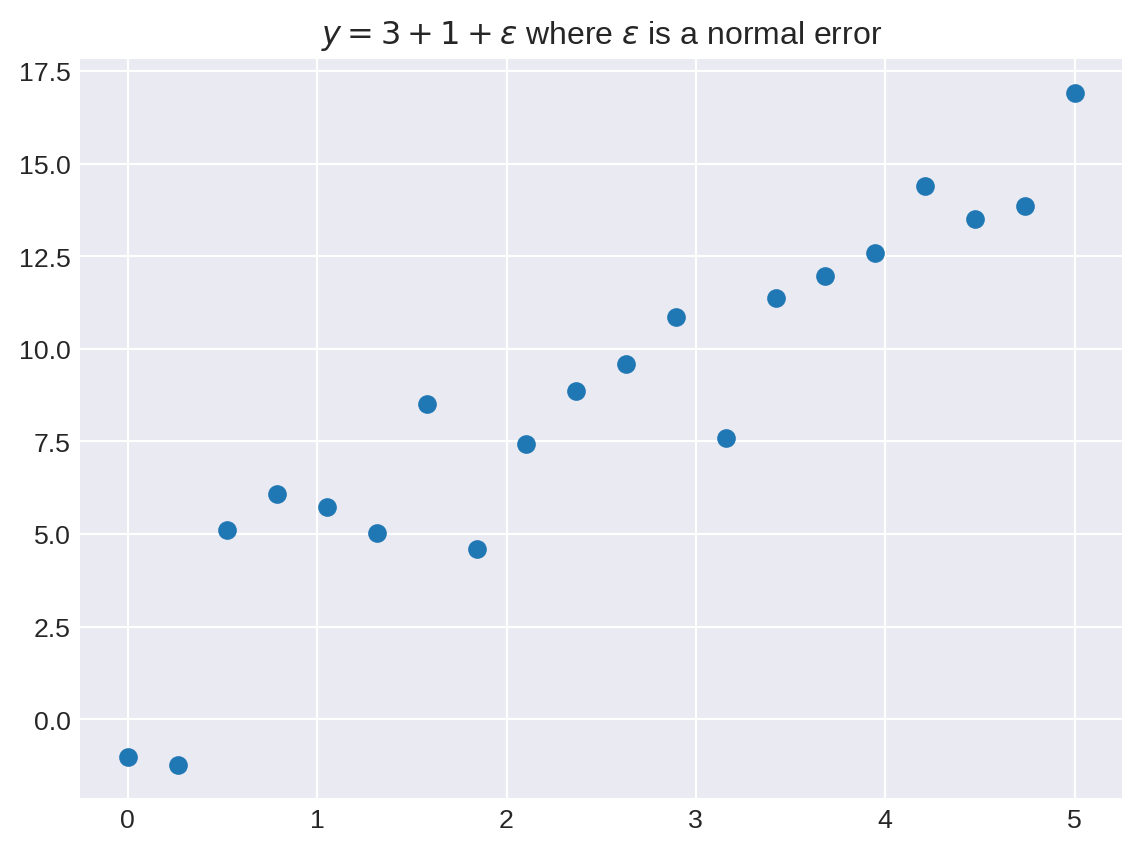
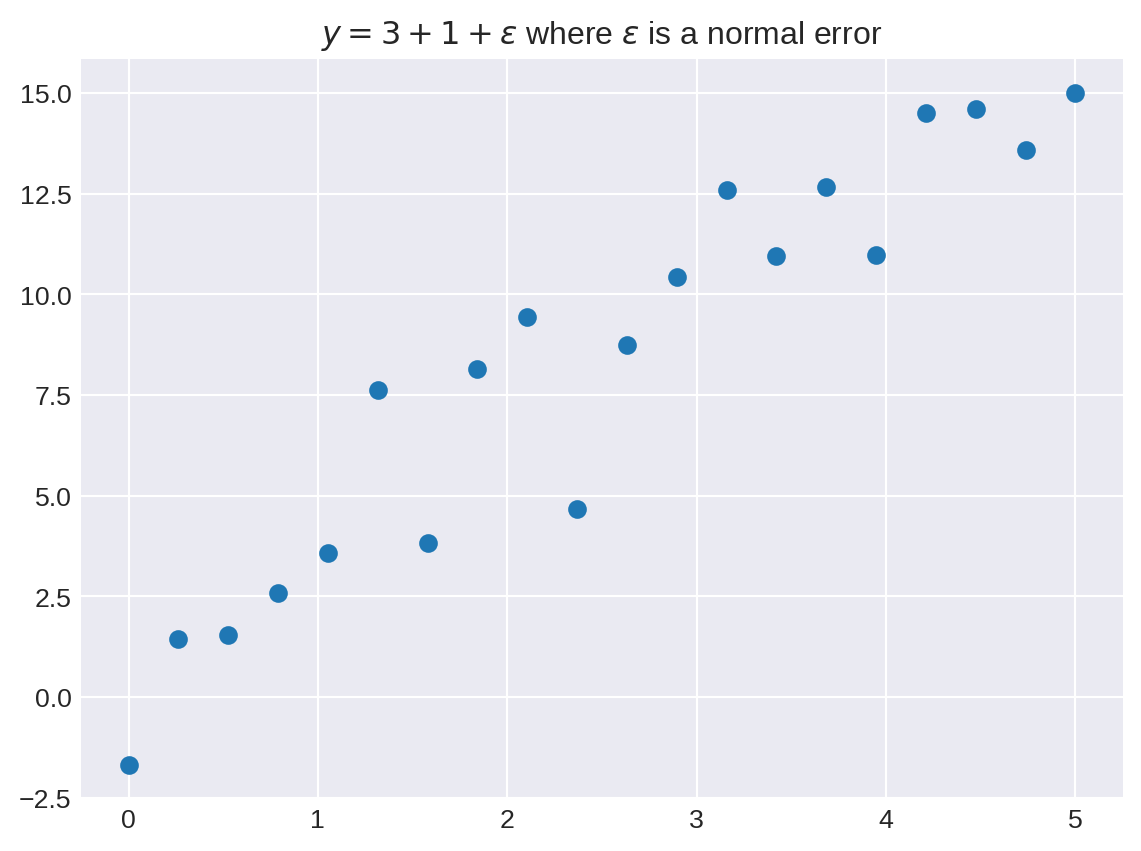
updating published version

diff --git a/docs/chapters/06-LinearAlgebra/linear_algebra_r.html b/docs/chapters/06-LinearAlgebra/linear_algebra_r.html
@@ -342,13 +342,13 @@ code span.wa { color: #60a0b0; font-weight: bold; font-style: italic; } /* Warni
 <span id="cb19-2"><a href="#cb19-2" aria-hidden="true" tabindex="-1"></a>y <span class="ot">&lt;-</span> <span class="fu">rnorm</span>(<span class="dv">4</span>)</span>
 <span id="cb19-3"><a href="#cb19-3" aria-hidden="true" tabindex="-1"></a><span class="fu">print</span>(x <span class="sc">+</span> y)</span></code><button title="Copy to Clipboard" class="code-copy-button"><i class="bi"></i></button></pre></div>
 <div class="cell-output cell-output-stdout">
-<pre><code>[1]  0.05654235 -0.66253931 -1.15118455 -2.25194597</code></pre>
+<pre><code>[1]  0.88424909  2.61113260  1.48789182 -0.04380272</code></pre>
 </div>
 <div class="sourceCode cell-code" id="cb21"><pre class="sourceCode r code-with-copy"><code class="sourceCode r"><span id="cb21-1"><a href="#cb21-1" aria-hidden="true" tabindex="-1"></a><span class="co"># note that in R this makes sense</span></span>
 <span id="cb21-2"><a href="#cb21-2" aria-hidden="true" tabindex="-1"></a>u <span class="ot">&lt;-</span> <span class="fu">rnorm</span>(<span class="dv">2</span>)</span>
 <span id="cb21-3"><a href="#cb21-3" aria-hidden="true" tabindex="-1"></a><span class="fu">print</span>(x <span class="sc">+</span> u)</span></code><button title="Copy to Clipboard" class="code-copy-button"><i class="bi"></i></button></pre></div>
 <div class="cell-output cell-output-stdout">
-<pre><code>[1] -0.9641883 -1.4708134 -1.1406099 -1.0718438</code></pre>
+<pre><code>[1] -0.1231225  2.7025162  0.7688217  1.1044347</code></pre>
 </div>
 </div>
 </section>
@@ -359,39 +359,39 @@ code span.wa { color: #60a0b0; font-weight: bold; font-style: italic; } /* Warni
 <span id="cb23-2"><a href="#cb23-2" aria-hidden="true" tabindex="-1"></a>v <span class="ot">=</span> <span class="fu">matrix</span>(<span class="fu">rnorm</span>(<span class="dv">20</span>), <span class="at">ncol =</span> <span class="dv">4</span>)</span>
 <span id="cb23-3"><a href="#cb23-3" aria-hidden="true" tabindex="-1"></a><span class="fu">print</span>(u <span class="sc">+</span> v)</span></code><button title="Copy to Clipboard" class="code-copy-button"><i class="bi"></i></button></pre></div>
 <div class="cell-output cell-output-stdout">
-<pre><code>           [,1]       [,2]       [,3]        [,4]
-[1,] -0.7859290  0.6203746 1.22401670  0.72913239
-[2,] -0.8729915 -1.3696926 0.37356499 -0.09813121
-[3,]  2.2918960  0.9992254 0.01635751  0.99036962
-[4,] -1.1608997  0.1378167 0.93764150  0.49598215
-[5,] -1.2424846  0.1680970 0.69150257  0.03499356</code></pre>
+<pre><code>           [,1]       [,2]       [,3]       [,4]
+[1,]  1.6041621  0.4550118 -1.1446814  1.3689316
+[2,] -1.7784515  2.2224914  0.9943245 -1.9458584
+[3,] -1.0502481 -0.7355956 -0.9706655 -0.3433118
+[4,] -0.6918100 -1.1313935  0.2097407  1.2988728
+[5,]  0.5416819  1.8932137 -0.5309709 -3.2464666</code></pre>
 </div>
 <div class="sourceCode cell-code" id="cb25"><pre class="sourceCode r code-with-copy"><code class="sourceCode r"><span id="cb25-1"><a href="#cb25-1" aria-hidden="true" tabindex="-1"></a><span class="fu">print</span>(u)</span></code><button title="Copy to Clipboard" class="code-copy-button"><i class="bi"></i></button></pre></div>
 <div class="cell-output cell-output-stdout">
-<pre><code>           [,1]       [,2]        [,3]       [,4]
-[1,] -0.6674943  0.1548416  1.44234282  1.1754484
-[2,] -0.4686590 -0.3306289 -0.09971544 -0.2195801
-[3,]  1.8729747  1.4658327  0.99252936  1.5343842
-[4,] -1.5251692 -0.3113888  0.10417805  0.3774740
-[5,] -1.0191301  0.3931130  1.40487179  0.3079997</code></pre>
+<pre><code>           [,1]       [,2]       [,3]       [,4]
+[1,]  0.7506417  1.0252840  0.2866268  0.8986574
+[2,] -0.4039538  1.4185452  0.4713976 -1.9940144
+[3,] -0.3965870  0.1536245 -0.1912570  0.3328120
+[4,] -0.4285570 -1.0525978 -0.1331725 -0.4039835
+[5,]  0.8066261  0.7399011 -1.6171598 -0.5798882</code></pre>
 </div>
 <div class="sourceCode cell-code" id="cb27"><pre class="sourceCode r code-with-copy"><code class="sourceCode r"><span id="cb27-1"><a href="#cb27-1" aria-hidden="true" tabindex="-1"></a><span class="fu">print</span>(<span class="dv">1</span> <span class="sc">/</span> u)</span></code><button title="Copy to Clipboard" class="code-copy-button"><i class="bi"></i></button></pre></div>
 <div class="cell-output cell-output-stdout">
-<pre><code>          [,1]       [,2]        [,3]       [,4]
-[1,] -1.498140  6.4582142   0.6933164  0.8507392
-[2,] -2.133748 -3.0245388 -10.0285376 -4.5541463
-[3,]  0.533910  0.6822061   1.0075269  0.6517273
-[4,] -0.655665 -3.2114188   9.5989507  2.6491889
-[5,] -0.981229  2.5437981   0.7118087  3.2467567</code></pre>
+<pre><code>          [,1]       [,2]       [,3]       [,4]
+[1,]  1.332194  0.9753395  3.4888575  1.1127711
+[2,] -2.475531  0.7049476  2.1213516 -0.5015009
+[3,] -2.521515  6.5093785 -5.2285676  3.0046991
+[4,] -2.333412 -0.9500305 -7.5090587 -2.4753485
+[5,]  1.239732  1.3515321 -0.6183681 -1.7244703</code></pre>
 </div>
 <div class="sourceCode cell-code" id="cb29"><pre class="sourceCode r code-with-copy"><code class="sourceCode r"><span id="cb29-1"><a href="#cb29-1" aria-hidden="true" tabindex="-1"></a><span class="fu">print</span>(<span class="fu">log</span>(<span class="fu">abs</span>(u)))</span></code><button title="Copy to Clipboard" class="code-copy-button"><i class="bi"></i></button></pre></div>
 <div class="cell-output cell-output-stdout">
-<pre><code>           [,1]       [,2]         [,3]       [,4]
-[1,] -0.4042245 -1.8653528  0.366268750  0.1616497
-[2,] -0.7578800 -1.1067586 -2.305434791 -1.5160381
-[3,]  0.6275279  0.3824235 -0.007498687  0.4281291
-[4,]  0.4221053 -1.1667128 -2.261653790 -0.9742535
-[5,]  0.0189494 -0.9336583  0.339946049 -1.1776565</code></pre>
+<pre><code>           [,1]        [,2]       [,3]       [,4]
+[1,] -0.2868269  0.02496967 -1.2495743 -0.1068534
+[2,] -0.9064548  0.34963186 -0.7520534  0.6901499
+[3,] -0.9248597 -1.87324398 -1.6541374 -1.1001774
+[4,] -0.8473315  0.05126119 -2.0161101 -0.9063812
+[5,] -0.2148950 -0.30123882  0.4806714 -0.5449199</code></pre>
 </div>
 </div>
 </section>
@@ -401,19 +401,19 @@ code span.wa { color: #60a0b0; font-weight: bold; font-style: italic; } /* Warni
 <div class="sourceCode cell-code" id="cb31"><pre class="sourceCode r code-with-copy"><code class="sourceCode r"><span id="cb31-1"><a href="#cb31-1" aria-hidden="true" tabindex="-1"></a>u <span class="ot">=</span> <span class="fu">matrix</span>(<span class="fu">rnorm</span>(<span class="dv">20</span>), <span class="at">ncol =</span> <span class="dv">4</span>)</span>
 <span id="cb31-2"><a href="#cb31-2" aria-hidden="true" tabindex="-1"></a><span class="fu">print</span>(<span class="fu">colMeans</span>(u))</span></code><button title="Copy to Clipboard" class="code-copy-button"><i class="bi"></i></button></pre></div>
 <div class="cell-output cell-output-stdout">
-<pre><code>[1] -0.7879874 -0.6636585  0.5096771 -1.0416046</code></pre>
+<pre><code>[1]  0.1510885  0.4893142  0.3304812 -0.1049330</code></pre>
 </div>
 <div class="sourceCode cell-code" id="cb33"><pre class="sourceCode r code-with-copy"><code class="sourceCode r"><span id="cb33-1"><a href="#cb33-1" aria-hidden="true" tabindex="-1"></a><span class="fu">print</span>(<span class="fu">rowMeans</span>(u))</span></code><button title="Copy to Clipboard" class="code-copy-button"><i class="bi"></i></button></pre></div>
 <div class="cell-output cell-output-stdout">
-<pre><code>[1] -1.6190478  0.3180778 -0.4395222 -0.1990287 -0.5399458</code></pre>
+<pre><code>[1]  0.04560553  1.17632505 -0.02221106 -0.33160748  0.21432663</code></pre>
 </div>
 <div class="sourceCode cell-code" id="cb35"><pre class="sourceCode r code-with-copy"><code class="sourceCode r"><span id="cb35-1"><a href="#cb35-1" aria-hidden="true" tabindex="-1"></a><span class="fu">apply</span>(u, <span class="dv">1</span>, <span class="cf">function</span>(x) <span class="fu">mean</span>(x))</span></code><button title="Copy to Clipboard" class="code-copy-button"><i class="bi"></i></button></pre></div>
 <div class="cell-output cell-output-stdout">
-<pre><code>[1] -1.6190478  0.3180778 -0.4395222 -0.1990287 -0.5399458</code></pre>
+<pre><code>[1]  0.04560553  1.17632505 -0.02221106 -0.33160748  0.21432663</code></pre>
 </div>
 <div class="sourceCode cell-code" id="cb37"><pre class="sourceCode r code-with-copy"><code class="sourceCode r"><span id="cb37-1"><a href="#cb37-1" aria-hidden="true" tabindex="-1"></a><span class="fu">apply</span>(u, <span class="dv">2</span>, <span class="cf">function</span>(x) <span class="fu">var</span>(x))</span></code><button title="Copy to Clipboard" class="code-copy-button"><i class="bi"></i></button></pre></div>
 <div class="cell-output cell-output-stdout">
-<pre><code>[1] 1.0931454 2.7281275 0.9454318 0.9984022</code></pre>
+<pre><code>[1] 0.8155064 1.0929477 0.8715465 0.2533590</code></pre>
 </div>
 </div>
 </section>
@@ -424,12 +424,12 @@ code span.wa { color: #60a0b0; font-weight: bold; font-style: italic; } /* Warni
 <span id="cb39-2"><a href="#cb39-2" aria-hidden="true" tabindex="-1"></a>y <span class="ot">=</span> <span class="fu">matrix</span>(<span class="fu">rnorm</span>(<span class="dv">15</span>), <span class="at">ncol =</span> <span class="dv">3</span>)</span>
 <span id="cb39-3"><a href="#cb39-3" aria-hidden="true" tabindex="-1"></a><span class="fu">print</span>(y <span class="sc">%*%</span> x)</span></code><button title="Copy to Clipboard" class="code-copy-button"><i class="bi"></i></button></pre></div>
 <div class="cell-output cell-output-stdout">
-<pre><code>            [,1]       [,2]        [,3]       [,4]
-[1,] -0.35738765 -3.3327848 -2.64467602 -1.9976658
-[2,]  1.58405812 -0.2465073 -0.79381421 -0.3886785
-[3,] -1.51365448  3.1436528  7.92656152  2.0914581
-[4,]  0.04808481  1.3922401  0.04770934  0.8657304
-[5,]  1.08797573 -1.8447263 -0.02137872 -1.3262850</code></pre>
+<pre><code>           [,1]        [,2]       [,3]       [,4]
+[1,]  0.4993162 -0.15592009  0.3847339  1.1827765
+[2,]  0.1438623  0.36497226  0.2770699 -0.5065040
+[3,]  2.0227754 -3.59145856  0.5739291  3.0519324
+[4,] -0.5896228  1.07626662 -0.1765855 -0.1774795
+[5,]  2.5654742  0.03211373  2.4029378  1.1367750</code></pre>
 </div>
 </div>
 </section>
@@ -439,11 +439,11 @@ code span.wa { color: #60a0b0; font-weight: bold; font-style: italic; } /* Warni
 <div class="sourceCode cell-code" id="cb41"><pre class="sourceCode r code-with-copy"><code class="sourceCode r"><span id="cb41-1"><a href="#cb41-1" aria-hidden="true" tabindex="-1"></a>x <span class="ot">=</span> <span class="fu">matrix</span>(<span class="fu">rnorm</span>(<span class="dv">12</span>), <span class="at">nrow =</span> <span class="dv">3</span>)</span>
 <span id="cb41-2"><a href="#cb41-2" aria-hidden="true" tabindex="-1"></a><span class="fu">print</span>(<span class="fu">t</span>(x))</span></code><button title="Copy to Clipboard" class="code-copy-button"><i class="bi"></i></button></pre></div>
 <div class="cell-output cell-output-stdout">
-<pre><code>           [,1]      [,2]       [,3]
-[1,] -0.1148143 0.9412811 -0.4806496
-[2,]  0.4800059 0.3796230  0.4983938
-[3,]  0.0871707 2.6874883 -1.2870599
-[4,]  0.4121558 1.1238658  1.0017109</code></pre>
+<pre><code>           [,1]        [,2]       [,3]
+[1,] -0.5743041 -0.02576836 -0.5677169
+[2,] -0.5727794 -0.31400475 -0.5750789
+[3,] -0.1020498  0.07143484  1.7653204
+[4,]  0.4065111  0.36241234  0.3150708</code></pre>
 </div>
 <div class="sourceCode cell-code" id="cb43"><pre class="sourceCode r code-with-copy"><code class="sourceCode r"><span id="cb43-1"><a href="#cb43-1" aria-hidden="true" tabindex="-1"></a><span class="fu">print</span>(<span class="fu">nrow</span>(<span class="fu">t</span>(x)))</span></code><button title="Copy to Clipboard" class="code-copy-button"><i class="bi"></i></button></pre></div>
 <div class="cell-output cell-output-stdout">

diff --git a/docs/chapters/04-StatBasics/stat-basics.html b/docs/chapters/04-StatBasics/stat-basics.html
@@ -587,7 +587,7 @@ z = \frac{x-\mu}{\sigma}
 <span id="cb1-5"><a href="#cb1-5"></a>quant <span class="ot">&lt;-</span> <span class="fu">qnorm</span>(.<span class="dv">05</span>, <span class="at">mean =</span> <span class="dv">0</span>, <span class="at">sd =</span> <span class="dv">1</span>)</span>
 <span id="cb1-6"><a href="#cb1-6"></a><span class="fu">cat</span>(<span class="st">"samples: "</span>, samples, <span class="st">"</span><span class="sc">\n</span><span class="st">"</span>)</span></code><button title="Copy to Clipboard" class="code-copy-button"><i class="bi"></i></button></pre></div>
 <div class="cell-output cell-output-stdout">
-<pre><code>samples:  1.102849 0.4938165 0.2123698 -0.484157 0.7425426 0.08802758 -0.1669334 1.230903 0.848861 0.1928609 </code></pre>
+<pre><code>samples:  0.4728613 0.7652448 -0.1810628 0.2732859 0.4602305 -0.8453938 -0.42011 0.04879375 1.021994 1.490884 </code></pre>
 </div>
 <div class="sourceCode cell-code" id="cb3"><pre class="sourceCode numberSource r number-lines code-with-copy"><code class="sourceCode r"><span id="cb3-1"><a href="#cb3-1"></a><span class="fu">cat</span>(<span class="st">"Density="</span>, densityfn, <span class="st">" CDF value="</span>, cdf, <span class="st">" Quantile="</span>, quant)</span></code><button title="Copy to Clipboard" class="code-copy-button"><i class="bi"></i></button></pre></div>
 <div class="cell-output cell-output-stdout">
@@ -620,7 +620,7 @@ z = \frac{x-\mu}{\sigma}
 <span id="cb5-10"><a href="#cb5-10"></a>    <span class="st">"Density=</span><span class="sc">{:.3f}</span><span class="st"> CDF value=</span><span class="sc">{:.3f}</span><span class="st"> Quantile=</span><span class="sc">{:.3f}</span><span class="st">"</span>.<span class="bu">format</span>(densityfn, cdf, quant),</span>
 <span id="cb5-11"><a href="#cb5-11"></a>)</span></code><button title="Copy to Clipboard" class="code-copy-button"><i class="bi"></i></button></pre></div>
 <div class="cell-output cell-output-stdout">
-<pre><code>samples = [ -0.125 -0.069 0.467 -0.515 2.443 -0.245 0.020 -1.579 2.010 1.028 ] Density=0.242 CDF value=0.841 Quantile=-1.645</code></pre>
+<pre><code>samples = [ -0.620 -0.078 -0.056 -0.516 -1.004 0.339 1.588 -0.108 -0.530 -1.482 ] Density=0.242 CDF value=0.841 Quantile=-1.645</code></pre>
 </div>
 </div>
 </section>
@@ -732,9 +732,15 @@ p(1)+(1-p)(0)=p.
 <p>and <span class="math display">\[
 \overline{x} = \frac{1}{N-1}\sum (x_{i}-\overline{x})^2
 \]</span></p>
-<p>are called the sample mean and variance; they are estimates of the mean and variance of the underlying random variable.</p>
+</section>
+<section id="sample-mean-and-variance" class="slide level2">
+<h2>Sample Mean and Variance</h2>
+<p>The formulae above are called the sample mean and variance; they are estimates of the mean and variance of the underlying random variable.</p>
 <p>The law of large numbers says that, as <span class="math inline">\(N\to\infty\)</span>, these estimates converge to the true values.</p>
 <p>In general these values are also random (they depend on the particular choices drawn from the distribution) and follow their own probabilility distribution.</p>
+</section>
+<section id="distribution-of-sample-mean-and-variance" class="slide level2">
+<h2>Distribution of sample mean and variance</h2>
 <p>So for example, if you sample a Bernoulli random variable <span class="math inline">\(10\)</span> times, the mean is <span class="math display">\[
 \frac{k}{N}
 \]</span> where <span class="math inline">\(k\)</span> is the number of heads.</p>
@@ -936,7 +942,7 @@ p(1)+(1-p)(0)=p.
 <div class="sourceCode cell-code" id="cb20"><pre class="sourceCode numberSource r number-lines code-with-copy"><code class="sourceCode r"><span id="cb20-1"><a href="#cb20-1"></a>simulated <span class="ot">&lt;-</span> <span class="fu">rbinom</span>(<span class="dv">10000</span>, <span class="dv">4600</span>, .<span class="dv">224</span>)</span>
 <span id="cb20-2"><a href="#cb20-2"></a><span class="fu">sum</span>(simulated <span class="sc">&gt;=</span> <span class="dv">1133</span>)</span></code><button title="Copy to Clipboard" class="code-copy-button"><i class="bi"></i></button></pre></div>
 <div class="cell-output cell-output-stdout">
-<pre><code>[1] 3</code></pre>
+<pre><code>[1] 1</code></pre>
 </div>
 </div>
 <!--

diff --git a/docs/chapters/06-LinearAlgebra/linear_algebra.html b/docs/chapters/06-LinearAlgebra/linear_algebra.html
@@ -444,7 +444,7 @@ code span.wa { color: #60a0b0; font-weight: bold; font-style: italic; } /* Warni
 </code></pre>
 </div>
 <div class="cell-output cell-output-display" data-execution_count="6">
-<pre><code>&lt;matplotlib.image.AxesImage at 0x7f676ba55e20&gt;</code></pre>
+<pre><code>&lt;matplotlib.image.AxesImage at 0x7f0fc085ee80&gt;</code></pre>
 </div>
 <div class="cell-output cell-output-display">
 <p><img src="linear_algebra_files/figure-html/cell-7-output-3.png" width="415" height="411"></p>
@@ -536,8 +536,8 @@ b_1v_1+...+b_kv_k=0
 <span id="cb10-4"><a href="#cb10-4" aria-hidden="true" tabindex="-1"></a>result <span class="op">=</span> <span class="bu">sum</span>(prods)  <span class="co"># sum of products</span></span>
 <span id="cb10-5"><a href="#cb10-5" aria-hidden="true" tabindex="-1"></a><span class="bu">print</span>(result)</span></code><button title="Copy to Clipboard" class="code-copy-button"><i class="bi"></i></button></pre></div>
 <div class="cell-output cell-output-stdout">
-<pre><code>[-1.20398744 -0.41806873 -0.71784202 -0.25902376 -1.47187983 -0.18061477
-  0.50318364 -0.54038005]</code></pre>
+<pre><code>[2.91920833 2.42156688 1.19757855 1.38846178 1.04011734 1.25715704
+ 2.36682868 1.49293615]</code></pre>
 </div>
 </div>
 </section>
@@ -895,7 +895,7 @@ Compare -M[:,0]+M[:,2] with M@v
 <div class="cell" data-execution_count="14">
 <div class="sourceCode cell-code" id="cb25"><pre class="sourceCode python code-with-copy"><code class="sourceCode python"><span id="cb25-1"><a href="#cb25-1" aria-hidden="true" tabindex="-1"></a>plt.scatter(x<span class="op">=</span>data0[:, <span class="dv">2</span>], y<span class="op">=</span>data0[:, <span class="dv">3</span>])</span></code><button title="Copy to Clipboard" class="code-copy-button"><i class="bi"></i></button></pre></div>
 <div class="cell-output cell-output-display" data-execution_count="14">
-<pre><code>&lt;matplotlib.collections.PathCollection at 0x7f676522f370&gt;</code></pre>
+<pre><code>&lt;matplotlib.collections.PathCollection at 0x7f0fb5ddce20&gt;</code></pre>
 </div>
 <div class="cell-output cell-output-display">
 <p><img src="linear_algebra_files/figure-html/cell-15-output-2.png" width="590" height="411"></p>

diff --git a/docs/chapters/06-LinearAlgebra/linear_algebra_python.html b/docs/chapters/06-LinearAlgebra/linear_algebra_python.html
@@ -311,7 +311,7 @@ Reshaped array to column vector:
 <span id="cb6-7"><a href="#cb6-7" aria-hidden="true" tabindex="-1"></a><span class="cf">except</span>:</span>
 <span id="cb6-8"><a href="#cb6-8" aria-hidden="true" tabindex="-1"></a>    <span class="bu">print</span>(<span class="st">"Cant Mix These"</span>)</span></code><button title="Copy to Clipboard" class="code-copy-button"><i class="bi"></i></button></pre></div>
 <div class="cell-output cell-output-stdout">
-<pre><code>[ 0.61593427 -1.18204249 -0.14053903  0.53756862]
+<pre><code>[-0.92862244  0.68071669 -0.96358783  1.35581761]
 Cant Mix These</code></pre>
 </div>
 </div>
@@ -368,16 +368,16 @@ x-z=[[-2 -1]
 <span id="cb12-4"><a href="#cb12-4" aria-hidden="true" tabindex="-1"></a><span class="bu">print</span>(y)</span>
 <span id="cb12-5"><a href="#cb12-5" aria-hidden="true" tabindex="-1"></a><span class="bu">print</span>(x <span class="op">@</span> y)</span></code><button title="Copy to Clipboard" class="code-copy-button"><i class="bi"></i></button></pre></div>
 <div class="cell-output cell-output-stdout">
-<pre><code>[[ 0.80293942  2.65815962  0.16442482  0.64100164]
- [ 2.03766333 -0.26575711 -0.13525724  0.85539097]
- [ 0.29313839  0.64721127 -0.70023183  0.26332111]]
-[[ 0.03018089]
- [ 1.11535233]
- [-0.07731558]
- [-0.12685875]]
-[[ 2.89498867]
- [-0.33297066]
- [ 0.75145002]]</code></pre>
+<pre><code>[[ 0.32535793  0.07441463 -1.97296133  0.26702677]
+ [ 1.96118676 -2.11524208 -0.33616689 -0.62526793]
+ [ 0.06262122  0.02005393 -0.05878574  0.39401792]]
+[[-0.63563636]
+ [ 1.0201423 ]
+ [ 0.17196108]
+ [ 0.99527713]]
+[[-0.20440273]
+ [-4.08457203]
+ [ 0.36270171]]</code></pre>
 </div>
 </div>
 </section>

diff --git a/docs/chapters/02-JupyterBasics/jupyter-walkthrough.html b/docs/chapters/02-JupyterBasics/jupyter-walkthrough.html
@@ -521,7 +521,7 @@ Molly
 <div class="cell" data-execution_count="31">
 <div class="sourceCode cell-code" id="cb57"><pre class="sourceCode python code-with-copy"><code class="sourceCode python"><span id="cb57-1"><a href="#cb57-1" aria-hidden="true" tabindex="-1"></a><span class="bu">print</span>(np.random.randint(<span class="dv">0</span>, <span class="dv">10</span>))</span></code><button title="Copy to Clipboard" class="code-copy-button"><i class="bi"></i></button></pre></div>
 <div class="cell-output cell-output-stdout">
-<pre><code>8</code></pre>
+<pre><code>1</code></pre>
 </div>
 </div>
 <div class="cell" data-execution_count="32">
@@ -536,7 +536,7 @@ Molly
 <div class="cell" data-execution_count="34">
 <div class="sourceCode cell-code" id="cb62"><pre class="sourceCode python code-with-copy"><code class="sourceCode python"><span id="cb62-1"><a href="#cb62-1" aria-hidden="true" tabindex="-1"></a>randint(<span class="dv">1</span>, <span class="dv">10</span>)</span></code><button title="Copy to Clipboard" class="code-copy-button"><i class="bi"></i></button></pre></div>
 <div class="cell-output cell-output-display" data-execution_count="34">
-<pre><code>4</code></pre>
+<pre><code>1</code></pre>
 </div>
 </div>
 </section>

diff --git a/docs/chapters/05-WorkingWithData/pandas_penguins.html b/docs/chapters/05-WorkingWithData/pandas_penguins.html
@@ -1372,7 +1372,7 @@ Categories (2, object): ['FEMALE', 'MALE']</code></pre>
 <div class="sourceCode cell-code" id="cb45"><pre class="sourceCode python code-with-copy"><code class="sourceCode python"><span id="cb45-1"><a href="#cb45-1" aria-hidden="true" tabindex="-1"></a>penguins_by_species <span class="op">=</span> penguins.groupby(<span class="st">'Species'</span>)</span>
 <span id="cb45-2"><a href="#cb45-2" aria-hidden="true" tabindex="-1"></a>penguins_by_species</span></code><button title="Copy to Clipboard" class="code-copy-button"><i class="bi"></i></button></pre></div>
 <div class="cell-output cell-output-display" data-execution_count="28">
-<pre><code>&lt;pandas.core.groupby.generic.DataFrameGroupBy object at 0x7f1f305c7be0&gt;</code></pre>
+<pre><code>&lt;pandas.core.groupby.generic.DataFrameGroupBy object at 0x7fc8ec231280&gt;</code></pre>
 </div>
 </div>
 </section>
